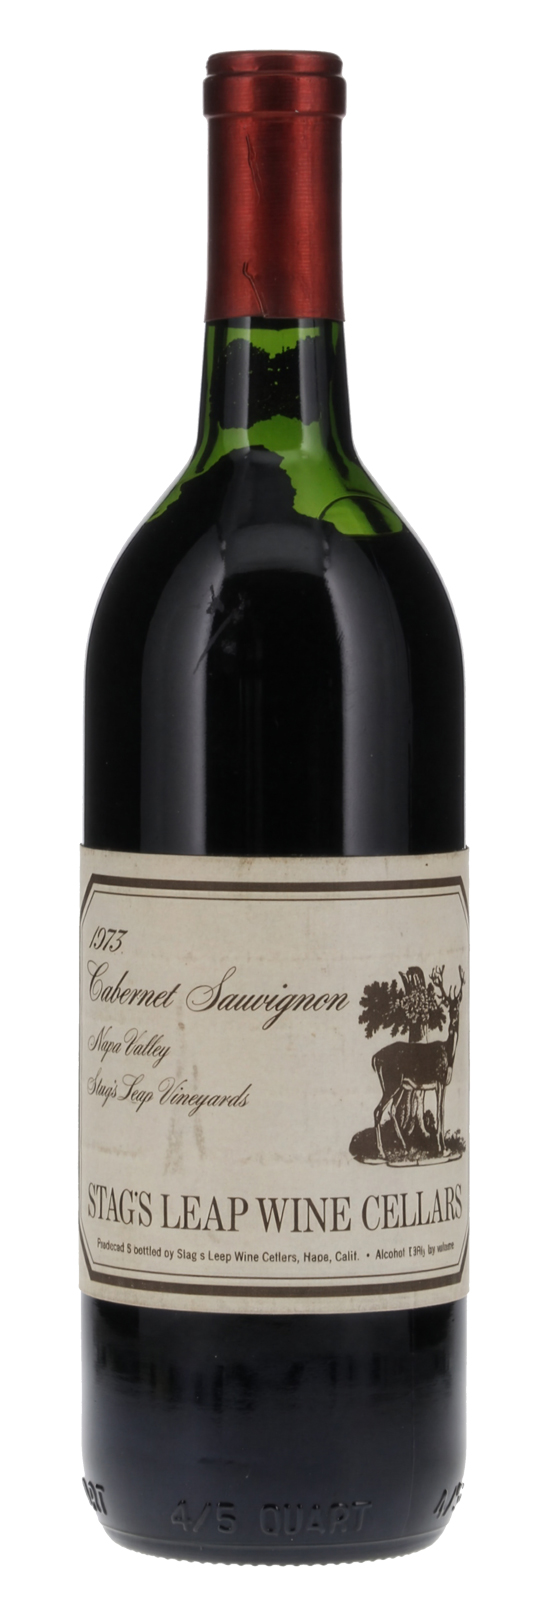
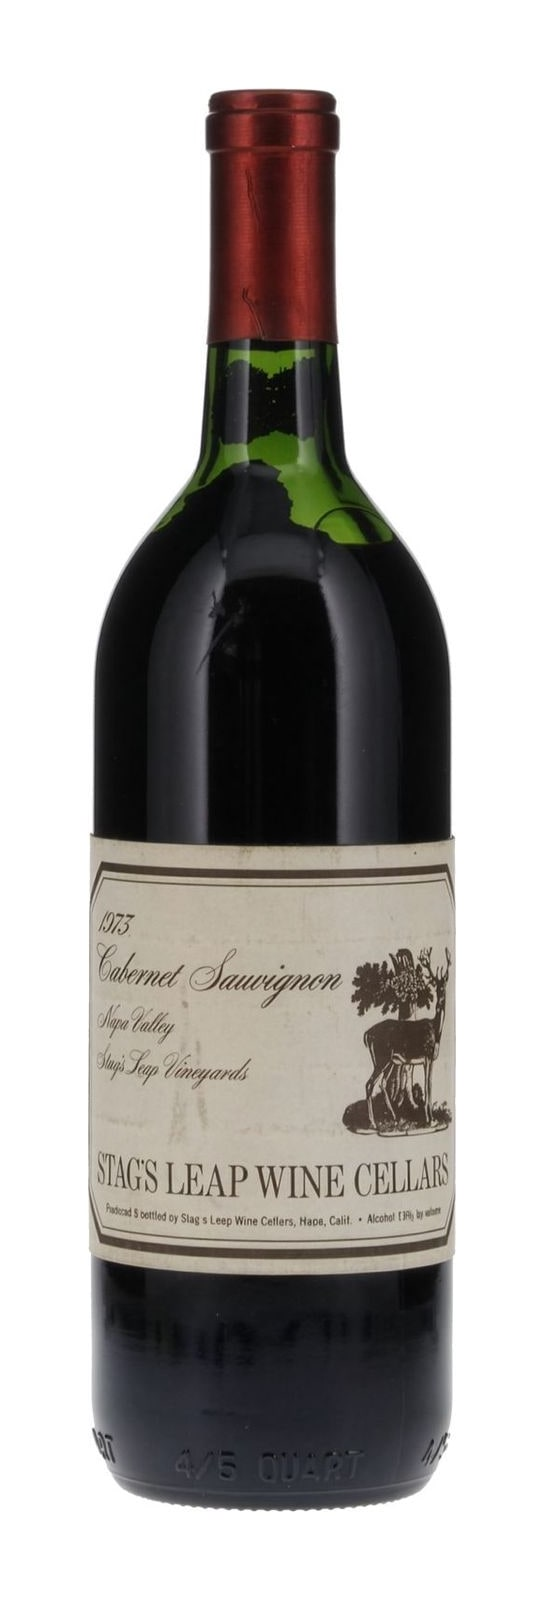
Menu type bump, matched Judgment bottles, inset archival photo
- Hamburger overlay small type larger and weightier: section labels
  and town numerals 10 -> 12px/600, column links 14 -> 15px/500,
  muted links 12px/600
- The two Judgment of Paris bottle images rendered at different
  sizes: the Montelena file was mostly white padding and the config
  gave each different display widths. Both are trimmed to the bottle,
  set on equal-height canvases with matched breathing room, and
  rendered at the same height
- The 1976 judges photo is a 310px archival frame stretched to
  ~900px; it now displays as a 440px inset (midArticleImage grew a
  maxWidth option) from a cleanly pre-scaled source

Claude-Session: https://claude.ai/code/session_017YLbcozxmYtU1AYDftPhqH

Changed region(s): [[0.1201, 0.0312, 0.9006, 1.0], [0.3902, 0.3438, 0.4203, 0.4062], [0.7205, 0.375, 0.7505, 0.4062]]

diff --git a/src/components/ui/NavMenuOverlay.module.css b/src/components/ui/NavMenuOverlay.module.css
@@ -38,7 +38,7 @@
 
 .brand > span:not(.brandRule) {
   font-family: var(--font-body, 'DM Sans', sans-serif);
-  font-size: clamp(9px, 0.72vw, 11px);
+  font-size: clamp(11px, 0.85vw, 12px);
   font-weight: 500;
   letter-spacing: 0.2em;
   text-transform: uppercase;
@@ -59,9 +59,9 @@
   border: none;
   background: transparent;
   font-family: var(--font-body, 'DM Sans', sans-serif);
-  font-size: 10px;
+  font-size: 12px;
   font-weight: 600;
-  letter-spacing: 0.22em;
+  letter-spacing: 0.2em;
   text-transform: uppercase;
   color: rgba(250, 247, 242, 0.5);
   cursor: pointer;
@@ -108,8 +108,8 @@
   flex-shrink: 0;
   min-width: 22px;
   font-family: var(--font-body, 'DM Sans', sans-serif);
-  font-size: 10px;
-  font-weight: 500;
+  font-size: 12px;
+  font-weight: 600;
   letter-spacing: 0.14em;
   color: var(--gold, #c4943a);
   opacity: 0.85;
@@ -149,9 +149,9 @@
 
 .sectionLabel {
   font-family: var(--font-body, 'DM Sans', sans-serif);
-  font-size: 10px;
+  font-size: 12px;
   font-weight: 600;
-  letter-spacing: 0.22em;
+  letter-spacing: 0.2em;
   text-transform: uppercase;
   color: rgba(250, 247, 242, 0.42);
   margin: 0 0 16px;
@@ -170,8 +170,8 @@
   display: block;
   margin-top: 14px;
   font-family: var(--font-body, 'DM Sans', sans-serif);
-  font-size: 11px;
-  font-weight: 500;
+  font-size: 12px;
+  font-weight: 600;
   letter-spacing: 0.14em;
   text-transform: uppercase;
   color: rgba(250, 247, 242, 0.42);
@@ -186,8 +186,8 @@
 .columnLink {
   display: block;
   font-family: var(--font-body, 'DM Sans', sans-serif);
-  font-size: 14px;
-  font-weight: 400;
+  font-size: 15px;
+  font-weight: 500;
   letter-spacing: 0.04em;
   line-height: 1.4;
   color: rgba(250, 247, 242, 0.78);
@@ -207,9 +207,9 @@
 
 .socialLabel {
   font-family: var(--font-body, 'DM Sans', sans-serif);
-  font-size: 10px;
+  font-size: 12px;
   font-weight: 600;
-  letter-spacing: 0.22em;
+  letter-spacing: 0.2em;
   text-transform: uppercase;
   color: rgba(250, 247, 242, 0.42);
   margin: 0 0 14px;

diff --git a/src/data/feature-articles.ts b/src/data/feature-articles.ts
@@ -19,23 +19,25 @@ export const FEATURE_ARTICLE_CONTENT: Record<string, FeatureArticleContent> = {
       {
         src: `${JUDGMENT}/points-montelena.jpg`,
         alt: '1973 Chateau Montelena Chardonnay',
-        width: 224,
+        width: 193,
         height: 550,
         transparent: true,
       },
       {
         src: `${JUDGMENT}/points-stags-leap.jpg`,
         alt: '1973 Stag’s Leap Wine Cellars Cabernet Sauvignon',
-        width: 182,
-        height: 546,
+        width: 187,
+        height: 550,
         transparent: true,
       },
     ],
     midArticleImage: {
-      src: `${JUDGMENT}/tasting-judges.png`,
+      src: `${JUDGMENT}/tasting-judges.jpg`,
       alt: 'Judges at the 1976 Paris tasting',
       caption:
         'The judges included French vintners, sommeliers and wine writers.',
+      // Archival frame is low-resolution — present it inset-sized, not full width
+      maxWidth: 440,
     },
     introParagraphs: [
       'Visitors to Napa Valley this year will arrive amidst a pair of important anniversaries. While America celebrates its 250th birthday, California wine is celebrating 50 years since the tasting that became known as the “Judgment of Paris” shined a light on the state’s progress and promise.',

diff --git a/src/components/features/FeatureArticleLayout.tsx b/src/components/features/FeatureArticleLayout.tsx
@@ -111,12 +111,23 @@ export default function FeatureArticleLayout({
 
       {content.midArticleImage && (
         <section className={styles.editorialPhotoSection}>
-          <div className={styles.editorialPhotoInner}>
+          <div
+            className={styles.editorialPhotoInner}
+            style={
+              content.midArticleImage.maxWidth
+                ? { maxWidth: content.midArticleImage.maxWidth, marginInline: 'auto' }
+                : undefined
+            }
+          >
             <Image
               src={content.midArticleImage.src}
               alt={content.midArticleImage.alt ?? ''}
               fill
-              sizes="(max-width: 900px) 100vw, 900px"
+              sizes={
+                content.midArticleImage.maxWidth
+                  ? `${content.midArticleImage.maxWidth}px`
+                  : '(max-width: 900px) 100vw, 900px'
+              }
               className={styles.editorialPhotoImg}
             />
           </div>

diff --git a/src/data/articles.ts b/src/data/articles.ts
@@ -16,7 +16,7 @@ export const articles: Article[] = [
       '/images/features/judgment-of-paris/hero.jpg',
       '/images/features/judgment-of-paris/points-montelena.jpg',
       '/images/features/judgment-of-paris/points-stags-leap.jpg',
-      '/images/features/judgment-of-paris/tasting-judges.png',
+      '/images/features/judgment-of-paris/tasting-judges.jpg',
     ],
     publishedAt: '2026-06-15',
   },

diff --git a/src/lib/types.ts b/src/lib/types.ts
@@ -159,6 +159,8 @@ export interface FeatureArticleContent {
     src: string
     alt?: string
     caption?: string
+    /** Cap display width (px) for low-resolution archival sources. */
+    maxWidth?: number
   }
 }
 
